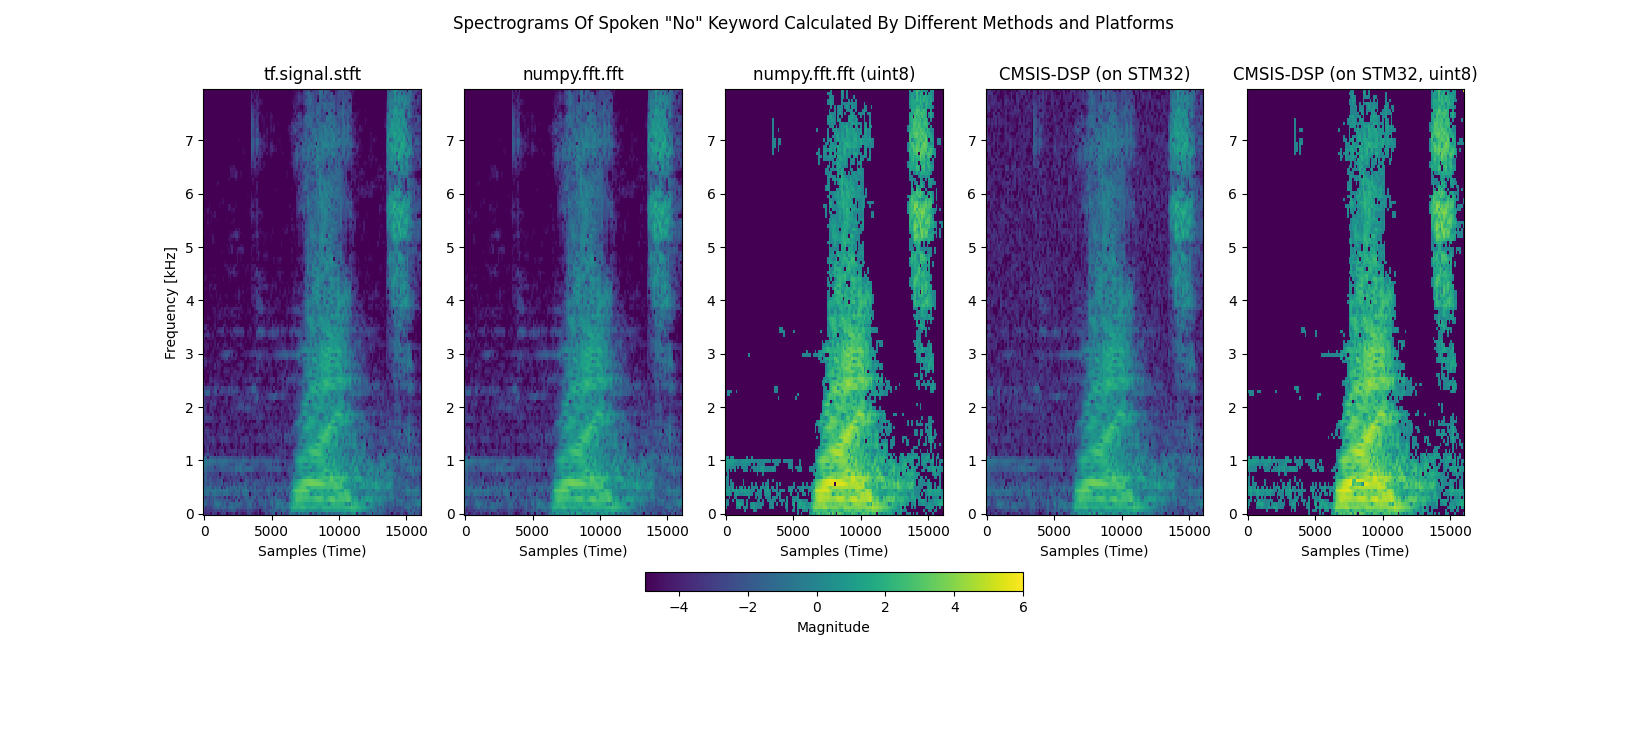
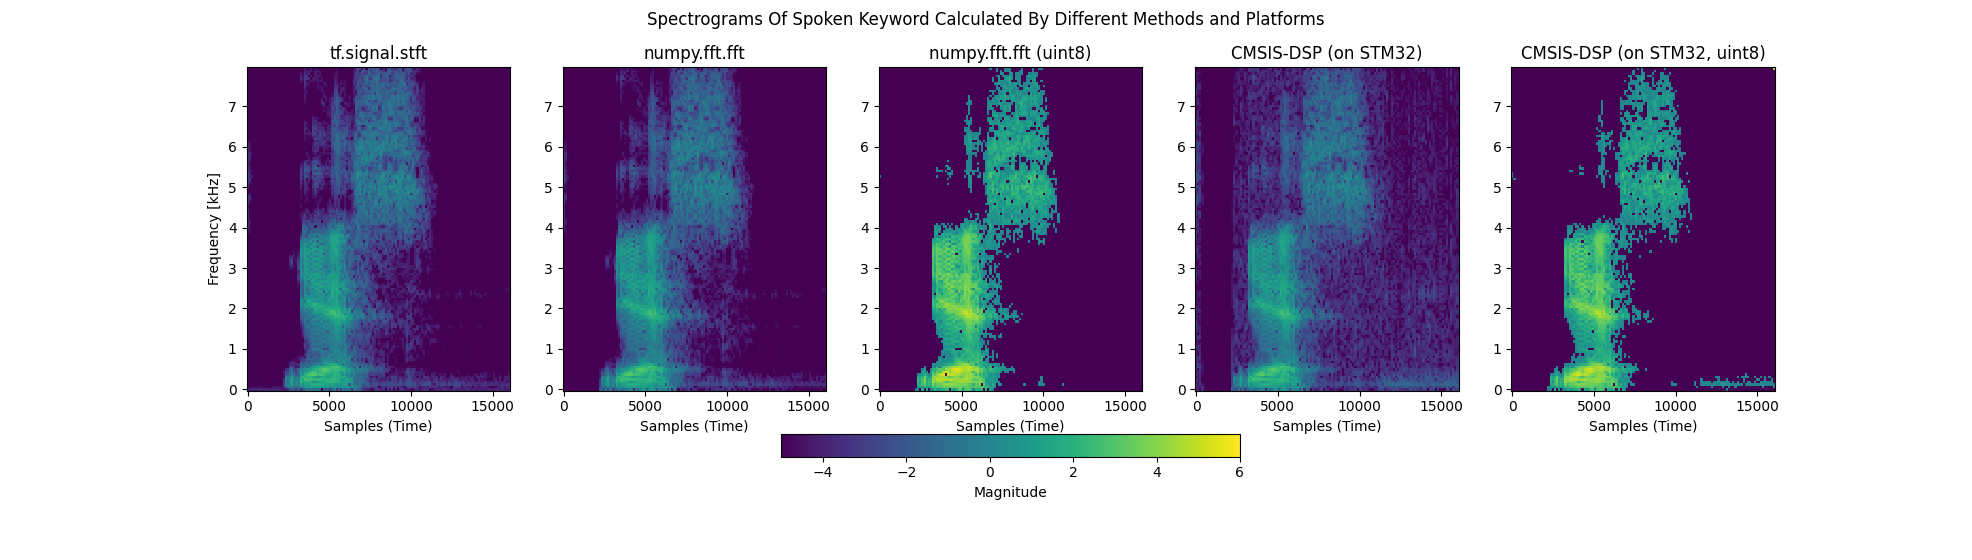
Add option to print spectrograms

Changed region(s): [[0.0922, 0.0, 0.9219, 0.9107]]

diff --git a/tools/spectrogram.py b/tools/spectrogram.py
@@ -137,7 +137,7 @@ for i in range(124):
 spectrogram_cmsis = np.array(spectrogram_cmsis)
 mesh = plot_numpy_spec(spectrogram_cmsis, ax[4])
 
-fig.suptitle('Spectrograms Of Spoken \"No\" Keyword Calculated By Different Methods and Platforms')
+fig.suptitle('Spectrograms Of Spoken Keyword Calculated By Different Methods and Platforms')
 cbar = fig.colorbar(mesh, ax=ax.ravel().tolist(), orientation='horizontal', pad=0.1, shrink=0.3)
 cbar.set_label('Magnitude')
 plt.show()
